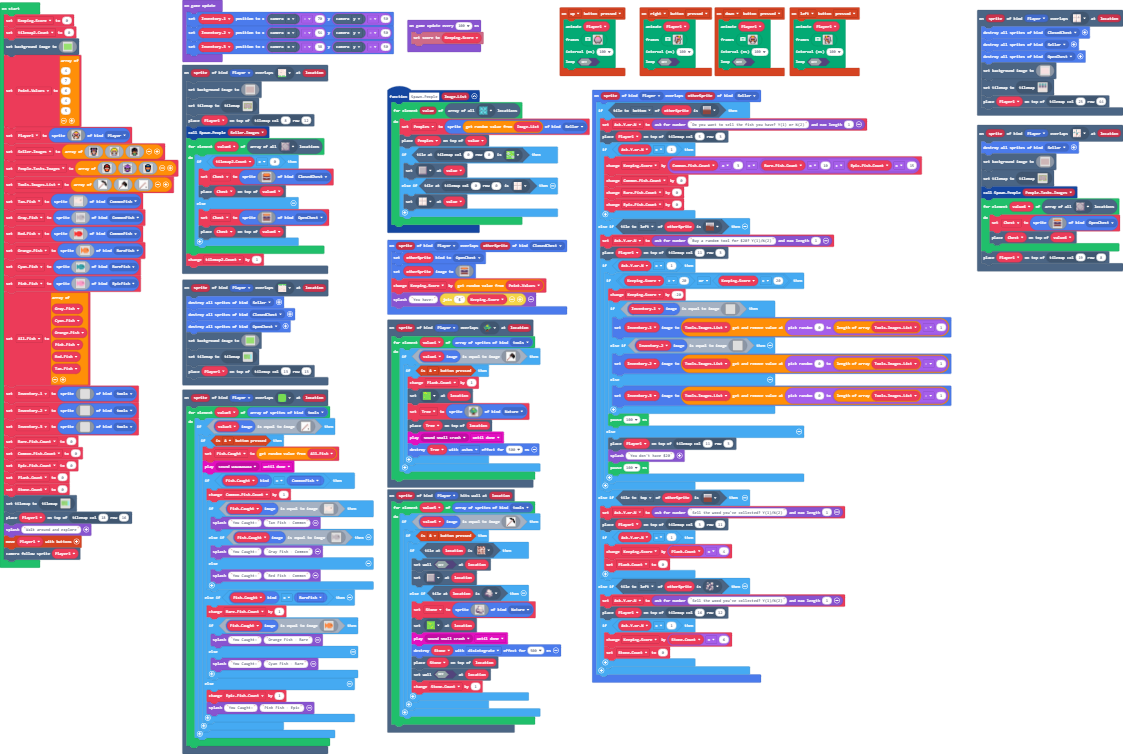
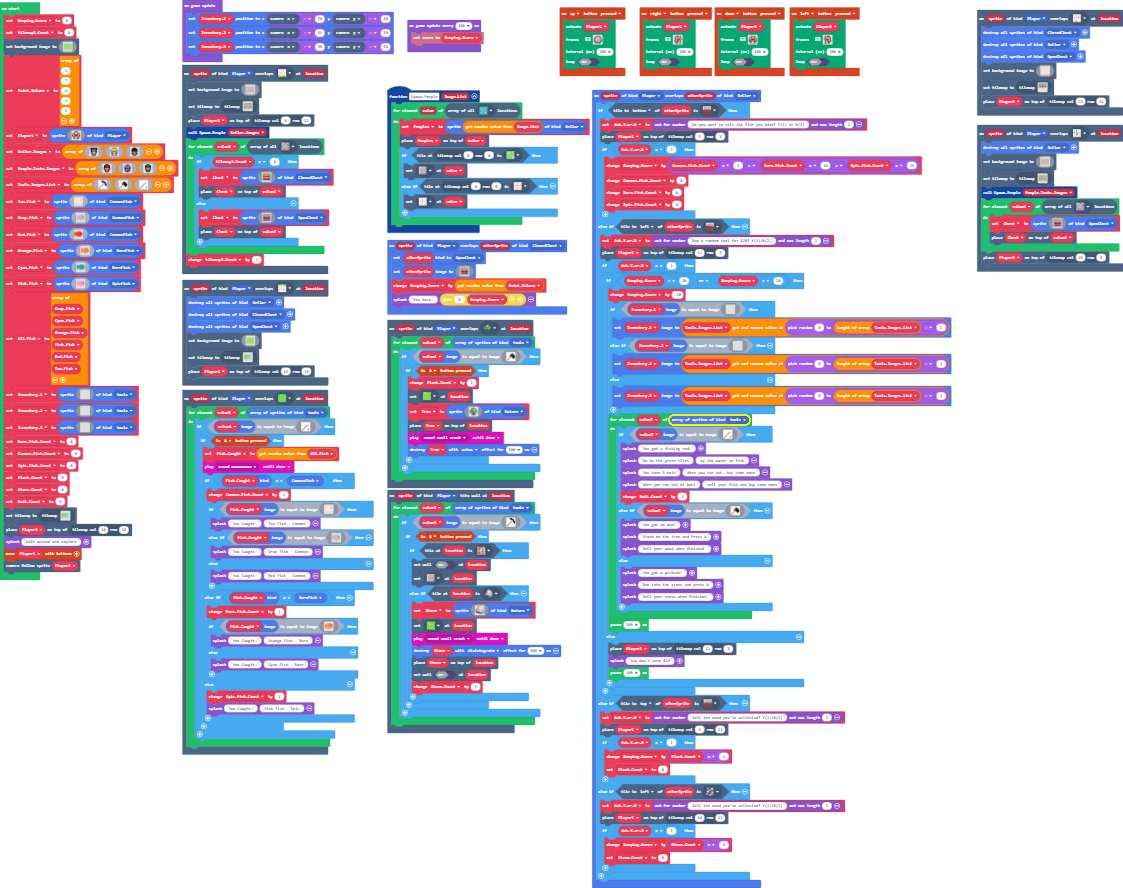
I added instructions for the player when they get a tool

diff --git a/tilemap.g.ts b/tilemap.g.ts
@@ -252,26 +252,6 @@ namespace myTiles {
 . . . . . . . . . . . . . . . . 
 . . . . . . . . . . . . . . . . 
 `, [myTiles.transparency16], TileScale.Sixteen);
-            case "level3":
[1 lines of base64/hex data omitted]
-........................
-.2222222222222222222222.
-.22.22.2.2.....2.....22.
-.22......2.....2.....22.
-.22......2.....2.....22.
-.2...22222.....2.....22.
-.22..222222..2222..2222.
-.2..................2.2.
-.2..................2.2.
-.2..................2.2.
-.22..222.....22..222222.
-.2.....2.....22...22222.
-.22...22.....22...22222.
-.22...22.....22...22222.
-.2.....2.....222.222222.
-.2222222.....2222222222.
-........................
-`, [myTiles.transparency16,myTiles.tile2,sprites.dungeon.collectibleInsignia,myTiles.tile4,sprites.castle.tileGrass2,sprites.castle.tilePath2,myTiles.tile5,myTiles.tile8,myTiles.tile9,myTiles.tile10,myTiles.tile11,myTiles.tile12,myTiles.tile3,myTiles.tile13,myTiles.tile14,myTiles.tile15,myTiles.tile16,sprites.dungeon.floorDark2,myTiles.tile17,sprites.castle.rock2,sprites.dungeon.floorDarkDiamond,sprites.castle.tileGrass1,sprites.castle.tilePath5,sprites.dungeon.floorLight1], TileScale.Sixteen);
             case "level1":
[1 lines of base64/hex data omitted]
 ................................................
@@ -351,6 +331,26 @@ namespace myTiles {
 ...2.2..2.22.2.........22........2.2222222222
 2.2..2..2....................2......222222222
 `, [myTiles.transparency16,sprites.castle.tileGrass1,myTiles.tile1,sprites.castle.tileGrass3,sprites.castle.saplingPine,sprites.castle.rock0,sprites.castle.tileGrass2,sprites.builtin.brick,sprites.castle.tilePath5,sprites.castle.tilePath8,myTiles.tile7], TileScale.Sixteen);
+            case "level3":
[1 lines of base64/hex data omitted]
+........................
+.2222222222222222222222.
+.22.22.2.2.....2.....22.
+.22......2.....2.....22.
+.22......2.....2.....22.
+.2...22222.....2.....22.
+.22..222222..2222..2222.
+.2..................2.2.
+.2..................2.2.
+.2..................2.2.
+.22..222.....22..222222.
+.2.....2.....22...22222.
+.22...22.....22...22222.
+.22...22.....22...22222.
+.2.....2.....222.222222.
+.2222222.....2222222222.
+........................
+`, [myTiles.transparency16,myTiles.tile2,sprites.dungeon.collectibleInsignia,myTiles.tile4,sprites.castle.tileGrass2,sprites.castle.tilePath2,myTiles.tile5,myTiles.tile8,myTiles.tile9,myTiles.tile10,myTiles.tile11,myTiles.tile12,myTiles.tile3,myTiles.tile13,myTiles.tile14,myTiles.tile15,myTiles.tile16,sprites.dungeon.floorDark2,myTiles.tile17,sprites.castle.rock2,sprites.dungeon.floorDarkDiamond,sprites.castle.tileGrass1,sprites.castle.tilePath5,sprites.dungeon.floorLight1,sprites.castle.shrub], TileScale.Sixteen);
         }
         return null;
     })

diff --git a/main.ts b/main.ts
@@ -721,6 +721,43 @@ sprites.onOverlap(SpriteKind.Player, SpriteKind.Seller, function (sprite, otherS
                 } else {
                     Inventory3.setImage(ToolsImagesList.removeAt(randint(0, ToolsImagesList.length - 1)))
                 }
+                for (let value7 of sprites.allOfKind(SpriteKind.tools)) {
+                    if (value7.image.equals(img`
+                        1 1 1 1 1 1 1 1 1 
+                        1 1 1 1 1 1 1 1 1 
+                        1 1 1 1 1 1 e 1 1 
+                        1 1 1 1 1 e 1 d 1 
+                        1 1 1 1 e 1 1 d 1 
+                        1 1 1 e 1 1 1 d 1 
+                        1 1 e 1 1 1 d 1 1 
+                        1 e 1 1 1 1 1 f 1 
+                        e 1 1 1 1 1 1 1 1 
+                        `)) {
+                        game.splash("You got a fishing rod!")
+                        game.splash("Go to the green tiles", "by the water to fish")
+                        game.splash("You have 5 bait", "When you run out, buy some more")
+                        game.splash("When you run out of bait", "sell your fish and buy some more")
+                        BaitCount += 5
+                    } else if (value7.image.equals(img`
+                        1 1 1 1 1 1 1 1 1 
+                        1 1 1 1 1 f f 1 1 
+                        1 1 1 1 f f e f 1 
+                        1 1 1 f f e f f f 
+                        1 1 1 1 e f f f f 
+                        1 1 1 e 1 1 f f f 
+                        1 1 e 1 1 1 1 f 1 
+                        1 e 1 1 1 1 1 1 1 
+                        e 1 1 1 1 1 1 1 1 
+                        `)) {
+                        game.splash("You got an axe!")
+                        game.splash("Stand on the tree and Press A")
+                        game.splash("Sell your wood when finished ")
+                    } else {
+                        game.splash("You got a pickaxe!")
+                        game.splash("Run into the stone and press A")
+                        game.splash("Sell your stone when finished ")
+                    }
+                }
                 pause(100)
             } else {
                 tiles.placeOnTile(Player1, tiles.getTileLocation(11, 3))
@@ -1516,6 +1553,7 @@ CommonFishCount = 0
 EpicFishCount = 0
 PlankCount = 0
 StoneCount = 0
+let BaitCount = 0
 tiles.setCurrentTilemap(tilemap`level2`)
 tiles.placeOnTile(Player1, tiles.getTileLocation(18, 16))
 game.splash("Walk around and explore")
